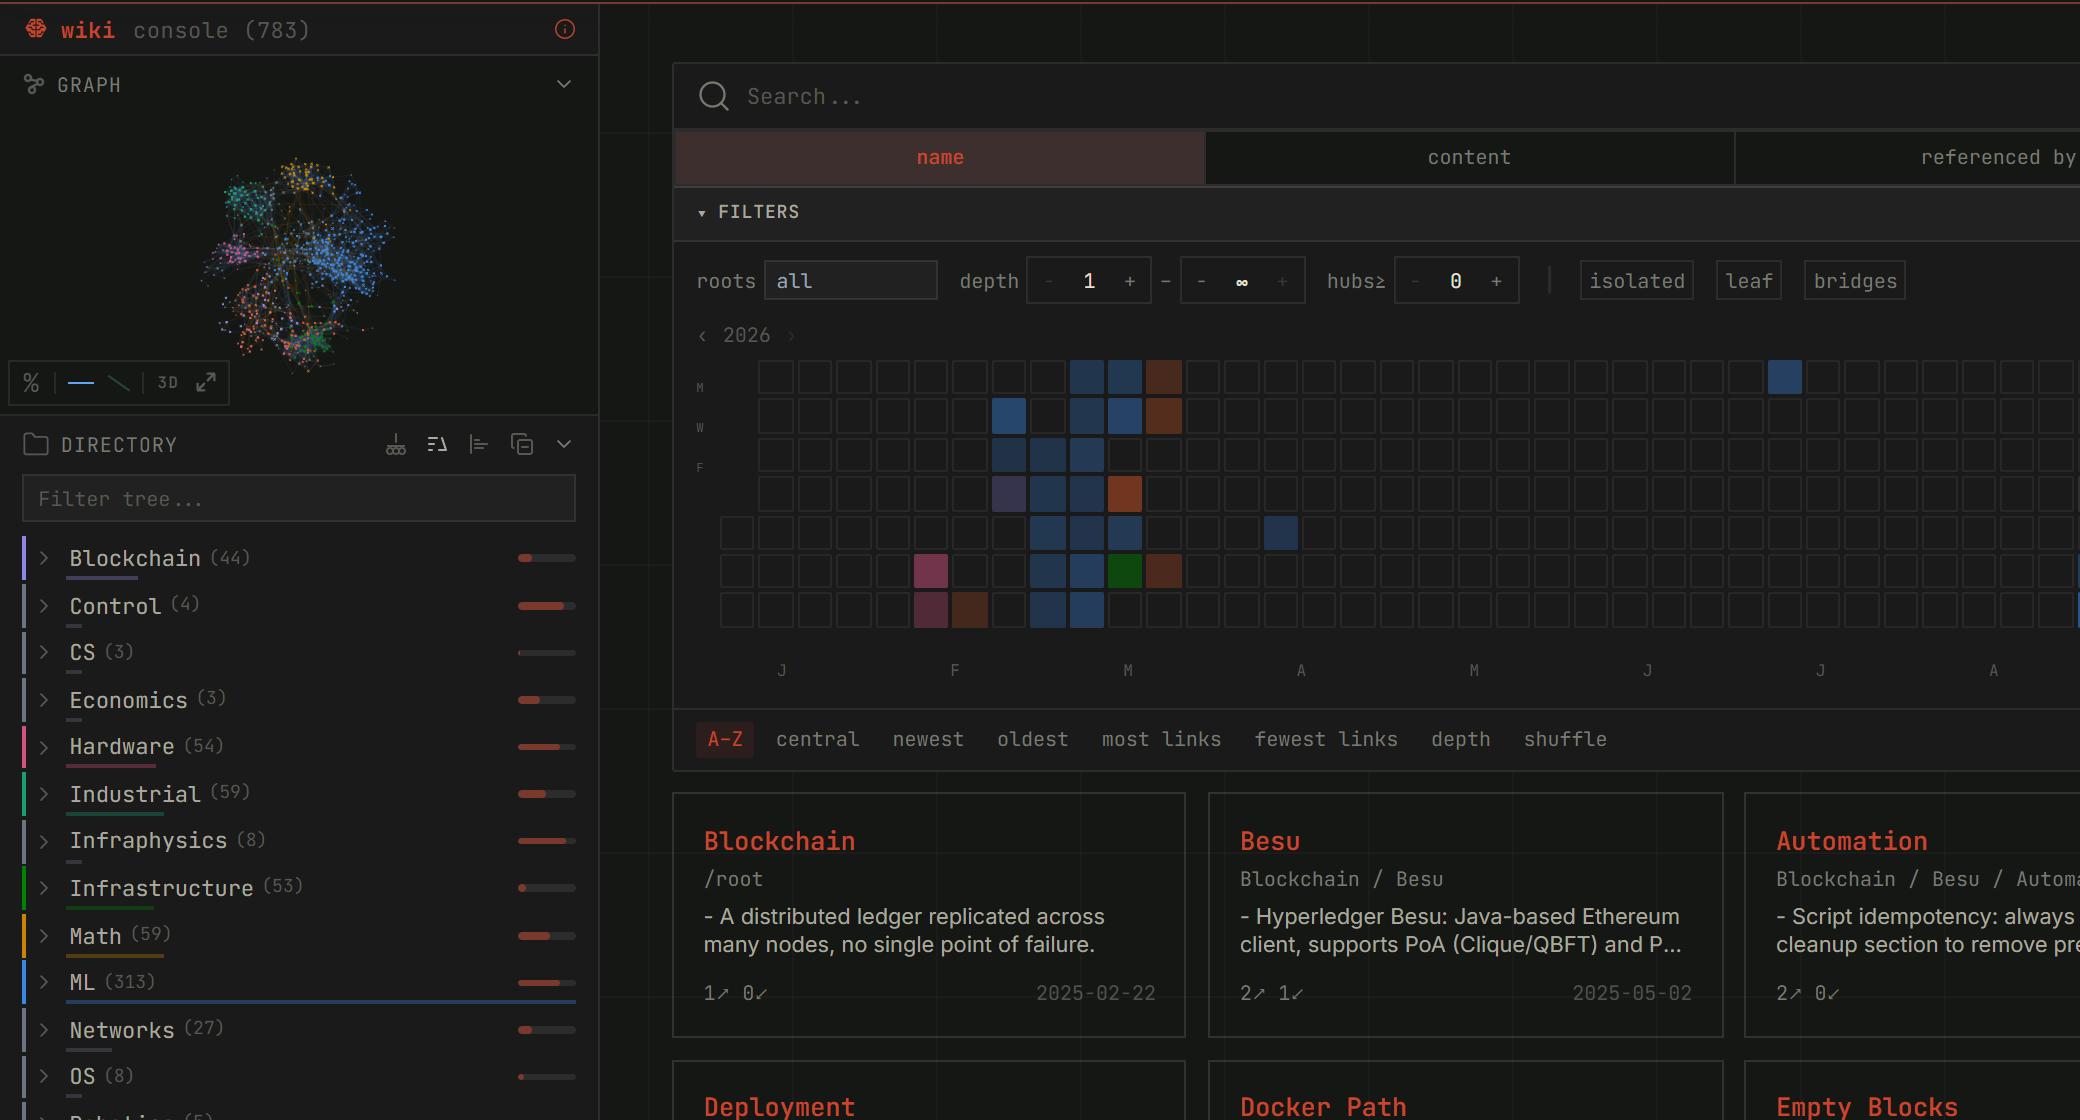
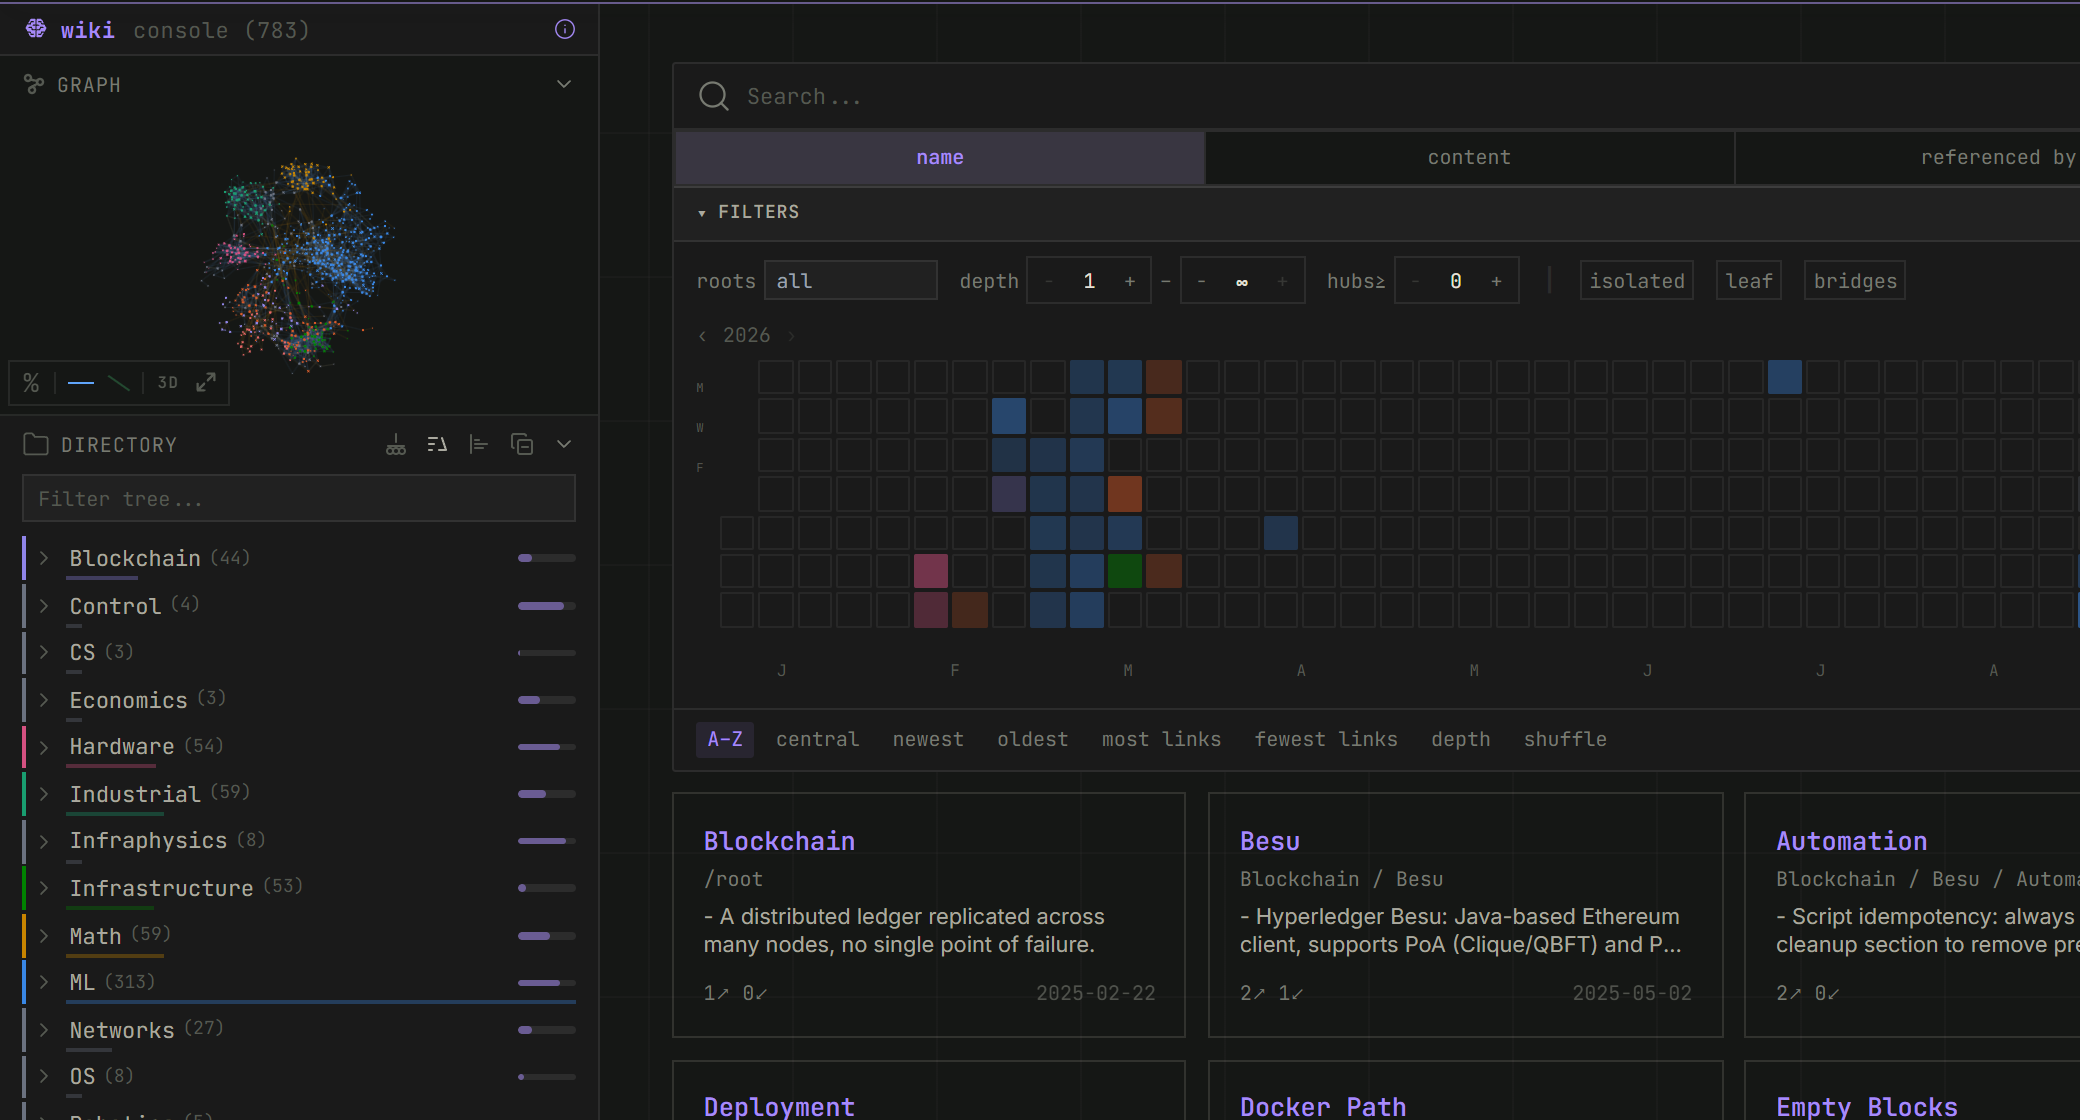
style(wiki): back to the purple accent
--wiki-accent returns to #A78BFA after the oxide trial; the home plate
captures are retaken in purple.

Claude-Session: https://claude.ai/code/session_016ysKSgynoGMcWkGt7xd41m

diff --git a/index.html b/index.html
@@ -93,8 +93,8 @@
         /* Wiki accent: the ONE place the wiki colour is defined. Every purple in the wiki UI derives
            from it: Tailwind's violet and purple scales (inline config above), --cat-fieldnotes-accent,
            --wiki-link, the graph ramps in JS (lib/wikiAccent.ts, same mix ratios). Theme-constant.
-           Original value #A78BFA (violet-400); currently trying the brand oxide. */
-        --wiki-accent: #c8462d;
+           Default #A78BFA (violet-400). */
+        --wiki-accent: #A78BFA;
         --wiki-50:  color-mix(in srgb, var(--wiki-accent), white 90%);
         --wiki-100: color-mix(in srgb, var(--wiki-accent), white 80%);
         --wiki-200: color-mix(in srgb, var(--wiki-accent), white 60%);
